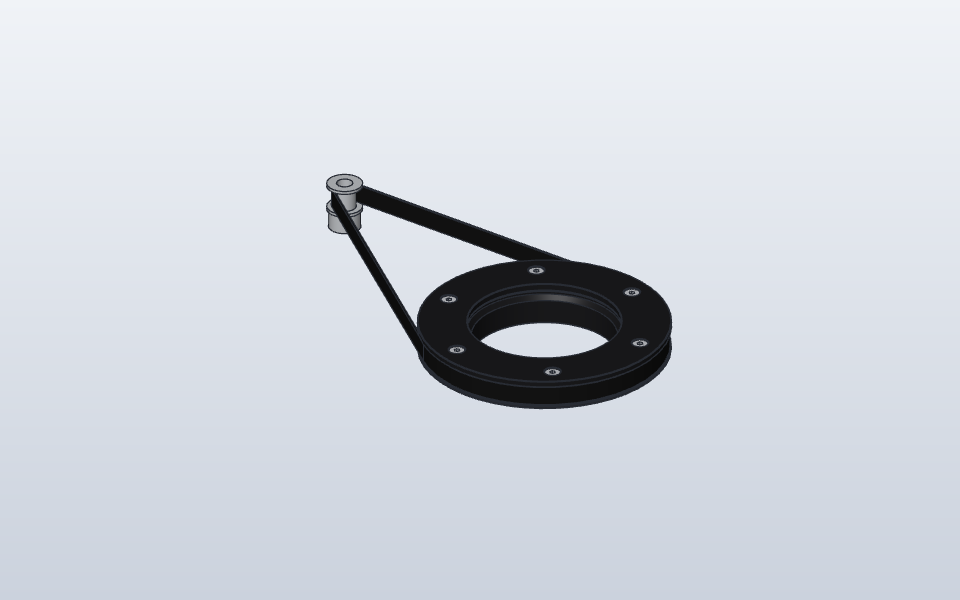
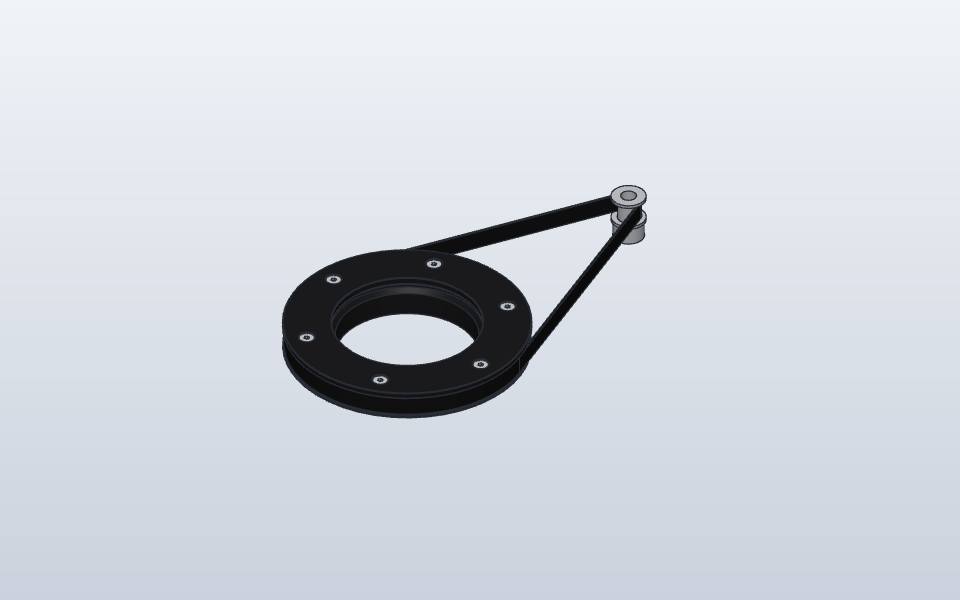
fix: rotator belt is 340 mm, centre distance 97.900 mm
The real belt is a 340 mm GT2 closed belt (6 mm), confirmed 2026-11-08.
Centre distance on 120T/12T solved exactly: 97.900 mm, wrap 221.1/138.9 deg.

- docs: README, BOM and cad/README updated; 360 mm / 108.5 references removed
- cad: openroto_belt_gt2_340 replaces openroto_belt_gt2_360; assembly pulley
  moved to (0, 97.900), belt relinked, STEP/PNG re-exported
- cad: clamp ring HoleChamfers picks reselected (lost after the SolidCraft
  update, the assembly linked an open clamp body); 3MF/STEP re-exported

Changed region(s): [[0.2812, 0.27, 0.7188, 0.72]]

diff --git a/cad/README.md b/cad/README.md
@@ -15,7 +15,7 @@ here from Triton). The Solid Edge `Rotator` folder is only a placeholder and was
 | `openroto_spacer_ring` | milled Al, black matte anodised | Ø50.05 / Ø55 × 1.5 under the bearing inner ring, Ø52 × 0.5 lip; turns with the inner ring |
 | `openroto_clamp_ring` | milled Al, black matte anodised | fixed side: Ø78 × 3.55, female M48×0.75 (minor Ø47.284), Ø57 recess over the inner-ring flange, Ø70 × 1.5 spigot into the sleeve, 6 × Ø2.7 countersunk 90° to Ø5.3 on Ø65 |
 | `openroto_gt2_sleeve` | printed | bearing housing Ø61, 120T GT2 ring (tip Ø75.886 = 120·2/π − 2·0.254), Ø77.886 × 1 belt flange, 6 × Ø2.0755 pilot holes 4.8 deep on Ø65 for the M2.5 screws |
-| `openroto_assembly` | — | all parts, 6 screws, pulley at (0, 108.507) and the belt |
+| `openroto_assembly` | — | all parts, 6 screws, pulley at (0, 97.900) and the belt |
 
 Threads are plain cylinders at the thread diameters of the original (cosmetic), as in the STEP.
 
@@ -34,10 +34,11 @@ Deviations from the original STEP, all small:
 | `openroto_bearing_rau5005` | THK RAU5005 crossed roller ring, 50 × 61 × 5, 0.2 chamfers (envelope) | the original STEP |
 | `openroto_screw_din7991_m2.5x8` | DIN 7991 M2.5×8 hex socket countersunk, A2 (×6), head 0.25 below the clamp face | dk 4.8, 90° head, hex socket s1.5 × 0.8 deep: fastener listings for DIN 7991 M2.5 (bolts.co.uk, Spalding Fasteners); the standard text was not checked |
 | `openroto_pulley_gt2_12t` | GT2 12T pulley, 5 mm bore, 6 mm belt (envelope: Ø11 flanges, Ø10 × 6 hub toward the motor) | **typical, not from a datasheet** — measure the bought pulley and correct `flange_d`, `hub_d`, `hub_l` |
-| `openroto_belt_gt2_360` | GT2 closed belt 360 mm, 6 mm wide (smooth band from the pulley tips to the backing, 0.63 thick) | GT2 pitch geometry |
+| `openroto_belt_gt2_340` | GT2 closed belt 340 mm, 6 mm wide (smooth band from the pulley tips to the backing, 0.63 thick) | GT2 pitch geometry |
 
-Centre distance for the 360 mm belt on 120T/12T, solved exactly: **108.507 mm** (pitch radii
-38.197 / 3.820 mm, wrap 216.9° / 143.1°). Triton's notes give ≈108.6 mm from the approximate formula.
+Centre distance for the 340 mm belt on 120T/12T, solved exactly: **97.900 mm** (pitch radii
+38.197 / 3.820 mm, wrap 221.1° / 138.9°). The motor mount (OpenWheel Triton variant, slotted plate) sets
+the centre distance between 93.8 and 98.7 mm, so the belt is tensioned by sliding the motor.
 The pulley sits on +Y in the assembly; its real direction comes from the OpenWheel motor mount (Triton #6).
 
 ## Parameters
@@ -64,7 +65,10 @@ Limits:
 | GT2 sleeve | 10365.5 (10340.4) | none | 0 open edges | no supports, no thin walls, bed contact 2128 mm² (flange down) |
 | bearing | 4781.4 (4780.5) | none | — | — |
 
-All designs open from their saved model (`solidcraft-cli bench-open`: `adopted: true, recomputed: 0`).
+All designs opened from their saved model (`solidcraft-cli bench-open`: `adopted: true, recomputed: 0`).
+After the SolidCraft update of 2026-11-08 evening, the designs saved before it recompute on open
+(`saved_model: false`); re-saved since: clamp ring, belt and assembly (2026-11-09). The update also lost
+the clamp's `HoleChamfers` picks: reselected at +Y of each hole, volume unchanged (8220.3), 0 open edges.
 The clamp follows `hole_pcd` and `cl_od` without errors (`check_parameters`).
 
 Kernel notes from the build: a revolved hole cutter and a 120-cylinder groove cut both logged

diff --git a/README.md b/README.md
@@ -2,7 +2,7 @@
 
 **A flat, belt-driven camera rotator for M48 imaging trains.** A THK RAU5005 crossed roller ring
 carries the camera side; a printed 120-tooth GT2 sleeve on the telescope side is driven by a 12T
-pulley and a closed 360 mm belt, so 10:1. About 10.4 mm of optical length, Ø45 clear aperture.
+pulley and a closed 340 mm belt, so 10:1. About 10.4 mm of optical length, Ø45 clear aperture.
 
 OpenRoto is the rotator of [Triton](../Triton/), the Esprit 100ED imaging train, and belongs to the
 OpenWheel family. It has no electronics of its own: in Triton the motor runs on
@@ -19,7 +19,7 @@ OpenWheel family. It has no electronics of its own: in Triton the motor runs on
 | Clear aperture | Ø45 mm |
 | Outside diameter | Ø78 mm (clamp ring); belt flange Ø77.9 mm |
 | Bearing | THK RAU5005 crossed roller ring, 50 × 61 × 5 mm |
-| Drive | 120T GT2 sleeve, 12T pulley, closed GT2 belt 360 mm × 6 mm, 10:1; centre distance 108.51 mm |
+| Drive | 120T GT2 sleeve, 12T pulley, closed GT2 belt 340 mm × 6 mm, 10:1; centre distance 97.90 mm |
 | Motor | 17HS08-1004S (NEMA 17 pancake), 16 µsteps → 88.889 steps/° |
 | Homing | none on the rotator itself; Triton homes it with the AstroUniBoard IMU (gravity) |
 | Materials | milled 6061-T6 rings, bead blasted and black matte anodised; printed PETG sleeve |

diff --git a/docs/BOM.md b/docs/BOM.md
@@ -11,5 +11,5 @@ One OpenRoto (release 1). Own parts are in [`../cad/`](../cad/).
 | 1 | THK RAU5005 crossed roller ring | 50 × 61 × 5 mm |
 | 6 | Hex socket countersunk screw DIN 7991 M2.5×8, A2 (1.5 mm key) | clamp ring into the sleeve's pilot holes |
 | 1 | GT2 pulley 12T, 5 mm bore, 6 mm belt | on the motor shaft |
-| 1 | GT2 closed belt, 360 mm, 6 mm wide | |
+| 1 | GT2 closed belt, 340 mm, 6 mm wide | |
 | 1 | Stepper 17HS08-1004S | mount is part of the OpenWheel Triton variant |
